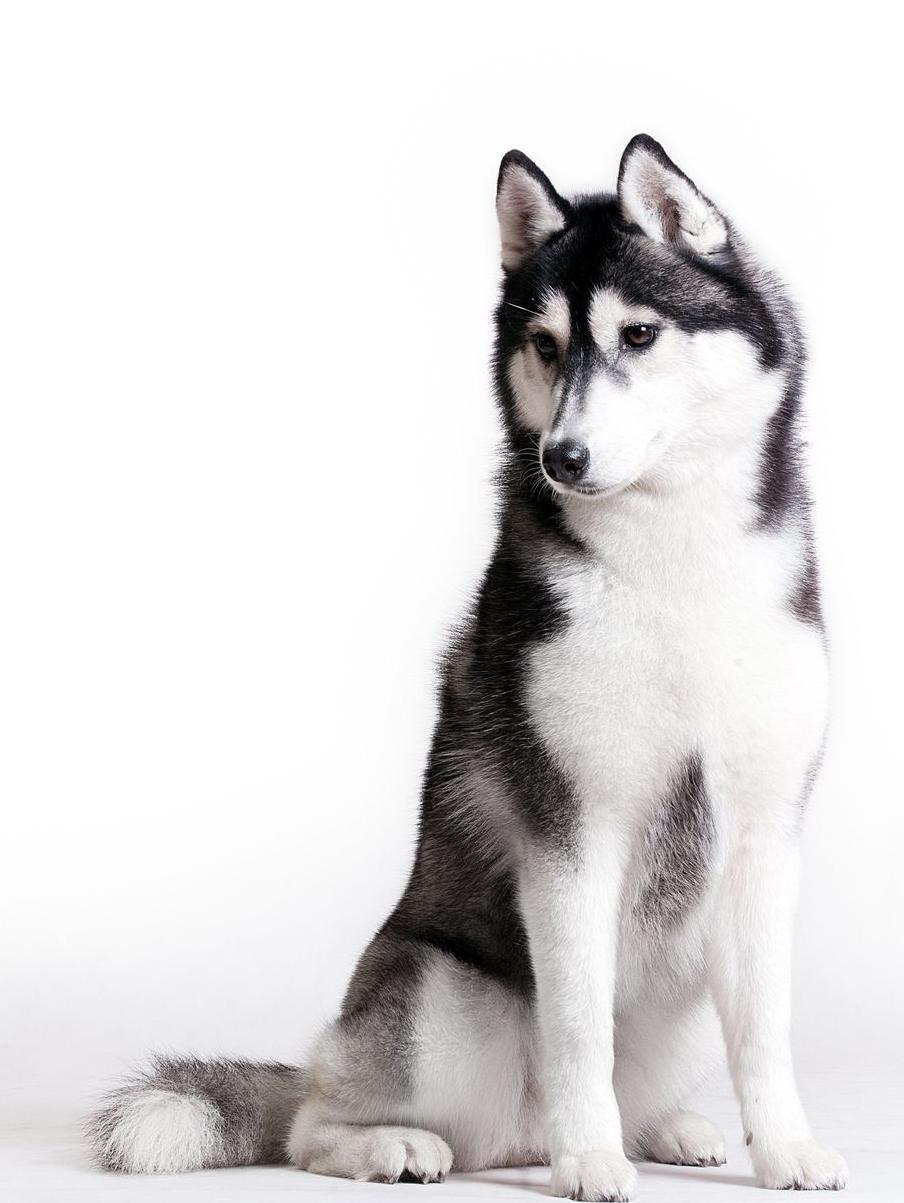
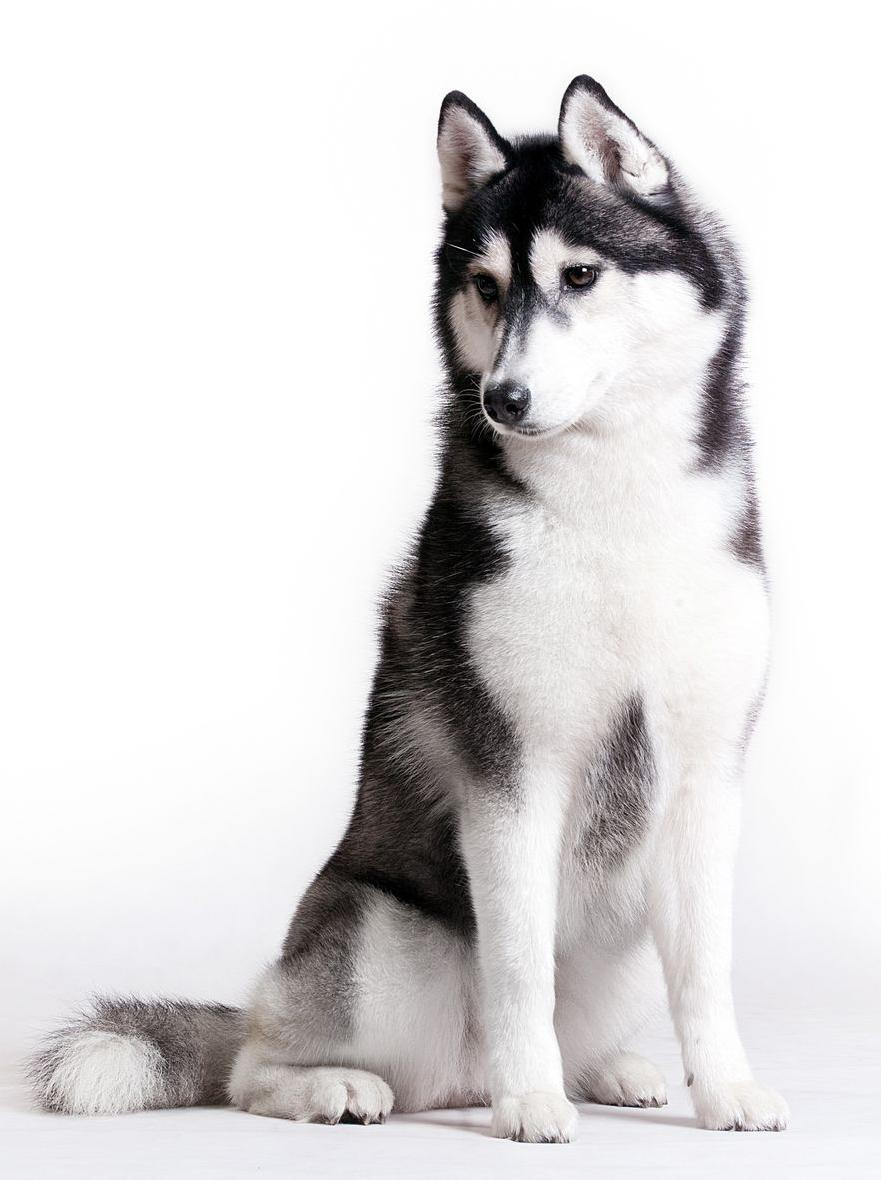
WhiteBoundsFix

diff --git a/Run.cs b/Run.cs
@@ -93,14 +93,14 @@ namespace SanadDiP
 
             // Task 6: Remove white boundaries from an image.
 
-            bmp = new Bitmap("/home/sanad/Desktop/My Files/24BitImages/MrInc.jpg");
-            // sw.Restart();
-            // bmp2 = ImageAlteration.RemoveWhiteBounds(bmp);
-            // sw.Stop();
-            // Console.WriteLine($"Image Before size = ({bmp.Width}, {bmp.Height}), Image After size = ({bmp2.Width}, {bmp2.Height})");
-            // Console.WriteLine($"Time taken: {sw.ElapsedMilliseconds}ms");
-            // bmp2.Save("Images/HuskyNoWhiteBounds.jpg", ImageFormat.Jpeg);
-            // Console.WriteLine();
+            bmp = new Bitmap("/home/sanad/Desktop/My Files/24BitImages/Husky.jpg");
+            sw.Restart();
+            bmp2 = ImageAlteration.RemoveWhiteBounds(bmp);
+            sw.Stop();
+            Console.WriteLine($"Image Before size = ({bmp.Width}, {bmp.Height}), Image After size = ({bmp2.Width}, {bmp2.Height})");
+            Console.WriteLine($"Time taken: {sw.ElapsedMilliseconds}ms");
+            bmp2.Save("Images/HuskyNoWhiteBounds.jpg", ImageFormat.Jpeg);
+            Console.WriteLine();
 
             // Task 7: Rescale image to best fit (either horizontally or vertically)
             
@@ -112,7 +112,7 @@ namespace SanadDiP
             Console.WriteLine($"Image Before size = ({bmp.Width}, {bmp.Height}), Image After size = ({bmp2.Width}, {bmp2.Height})");
             Console.WriteLine($"Time taken: {sw.ElapsedMilliseconds}ms");
             Console.WriteLine();
-            bmp2.Save("Images/MrIncRescaledHalfColored.jpg", ImageFormat.Jpeg);
+            // bmp2.Save("Images/MrIncRescaledHalfColored.jpg", ImageFormat.Jpeg);
 
             sw.Restart();
             bmp2 = ImageAlteration.Rescale(bmp, 2);
@@ -120,8 +120,7 @@ namespace SanadDiP
             Console.WriteLine($"Image Before size = ({bmp.Width}, {bmp.Height}), Image After size = ({bmp2.Width}, {bmp2.Height})");
             Console.WriteLine($"Time taken: {sw.ElapsedMilliseconds}ms");
             Console.WriteLine();
-            bmp2.Save("Images/MrIncRescaledDoubleColored.jpg", ImageFormat.Jpeg);
-
+            // bmp2.Save("Images/MrIncRescaledDoubleColored.jpg", ImageFormat.Jpeg);
         }   
     }
 }

diff --git a/ImageAlteration.cs b/ImageAlteration.cs
@@ -118,7 +118,7 @@ namespace SanadDiP
             bool breakIt = false;       // boolean determines if we need to break search because non white border found.
             int skip = 0;               // how many pixels we are skipping from final image because of white border.
             int stride = bmd.Stride;    // NON-CHANGING stride value.
-            int last = bW - 2;          // used for calculating pixel on right side (last stands for last pixel in row).
+            int last = bW - 1;          // used for calculating pixel on right side (last stands for last pixel in row).
             
             unsafe
             {
@@ -158,14 +158,14 @@ namespace SanadDiP
                     skip++;         // for top & left ptrs calculation
                     last -= 2;      // for right (left is incremented)
 
-                    bH -= 2;        //  image width is decreasing
-                    bW -= 2;        // image height is decreasing
+                    bH--;           //  image width is decreasing
+                    bW--;           // image height is decreasing
                 }
             }
             newB.UnlockBits(bmd);
 
 
-            return b.Clone(new Rectangle(skip, skip, bW, bH), b.PixelFormat);   // skip is used to trace where the white boundaries are repeating.
+            return b.Clone(new Rectangle(skip, skip, bW-2, bH-2), b.PixelFormat);   // skip is used to trace where the white boundaries are repeating.
         } // Returns same Image cropped by exactly n rows and columns equally
 
         public static Bitmap Rescale(Bitmap b, double factor) // Changes image resolution by resizing/rescaling
